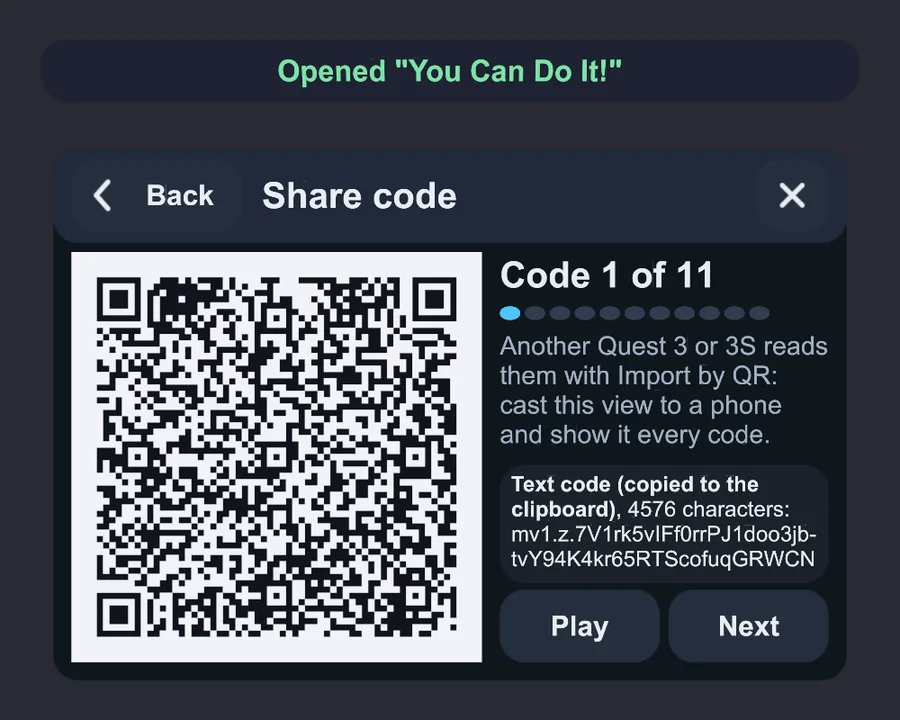
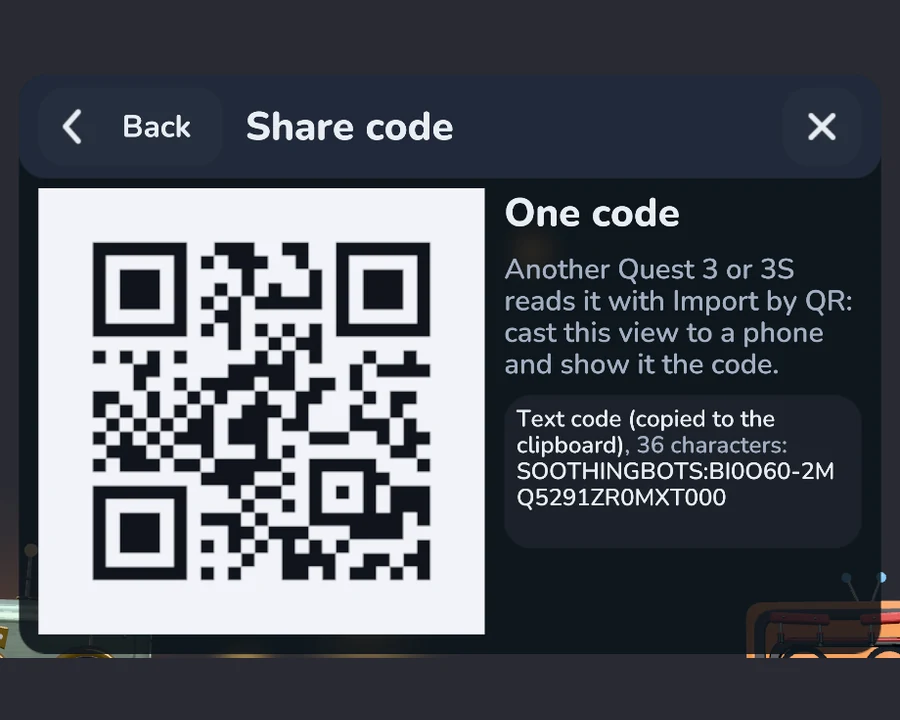
Site: story songs describe the 0.3.19 cast and episodes; share is one QR code
The story-songs block now introduces the cast of sixteen robots and the
story episodes (kids get the hook, grown-ups a quiet bridge). The share
block says one QR code, and its image is the single-code Share panel
(Nunito, from the 0.3.19 font renders) in place of the old 'Code 1 of 11'.

diff --git a/index.html b/index.html
@@ -88,8 +88,8 @@
           </figure>
           <div>
             <h3>Story songs for kids and grown-ups</h3>
-            <p>Gentle little songs about cosy things: soft days, the moon, good friends and better days coming. The words float under each robot, so everyone can sing along.</p>
-            <p>Want a new one? Tap Random for a fresh song, or type in your own words and the choir will sing them back to you.</p>
+            <p>Every song is sung by the same sixteen robots, a family and their neighbourhood. Meet Teddy, almost four, who knows every dinosaur but can't do up his shoes yet; his big sister Ivy; Grandma Pearl, who can't say no; and Grandpa Lou, who runs the diner and says "That's extra."</p>
+            <p>Tap Random for a little story episode, like Free Refills, The Big Box or Murphy's Lucky Day. Kids get a hook to sing and plenty of silly bits; grown-ups get a quiet moment in the bridge. Or type in your own words and the choir will sing them back to you.</p>
           </div>
         </article>
 
@@ -108,11 +108,11 @@
         <article class="feature">
           <figure class="feature-art">
             <img src="img/share-qr.webp" width="900" height="720" loading="lazy"
-                 alt="The Share code panel showing a QR code for the song 'You Can Do It!', with Play and Next buttons.">
+                 alt="The Share code panel showing a single QR code under the heading 'One code', with a short text code beside it.">
           </figure>
           <div>
             <h3>Share songs as QR codes</h3>
-            <p>Made something lovely? Turn it into a QR code and show it to a friend. Their Quest 3 or 3S scans it and their choir sings your song.</p>
+            <p>Made something lovely? Turn it into one QR code and show it to a friend. Their Quest 3 or 3S scans it and their choir sings your song. (Only a very heavily edited song needs a few codes.)</p>
             <p>The code holds the song and nothing else. There's a text code too, for when a camera isn't handy.</p>
           </div>
         </article>
